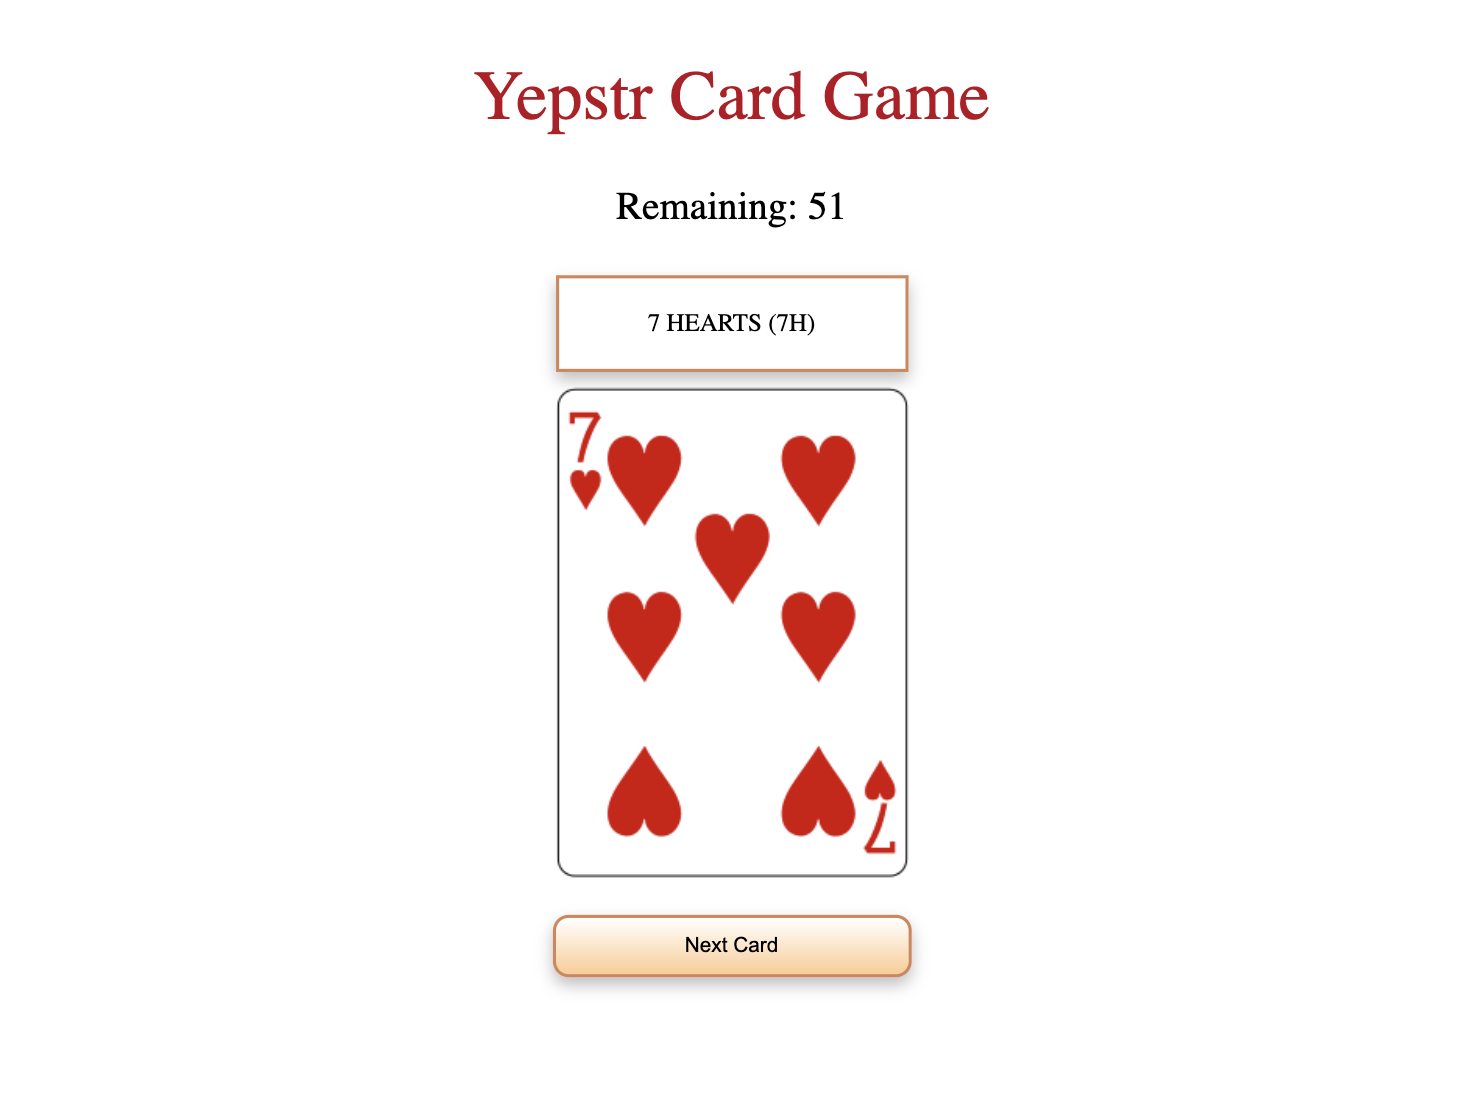
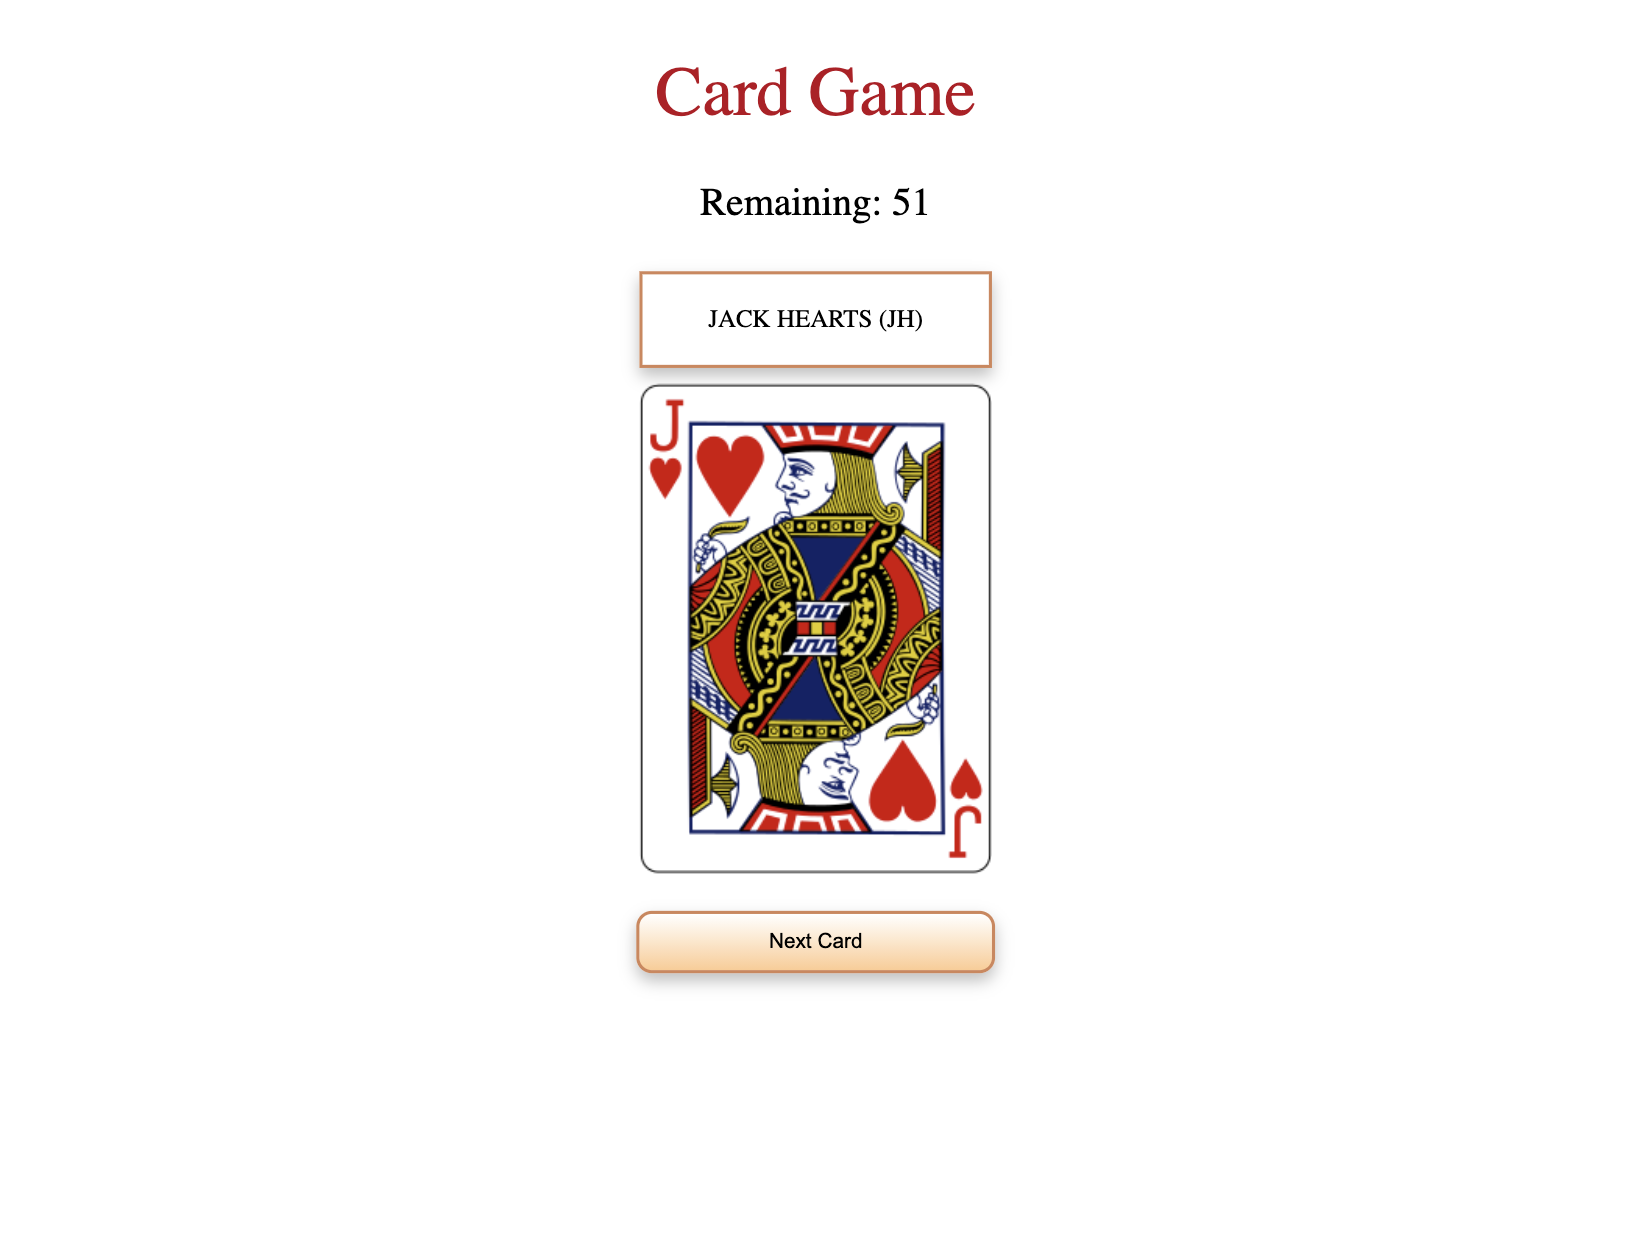
Update README.md

Changed region(s): [[0.3683, 0.1529, 0.6446, 0.8867], [0.307, 0.0306, 0.6753, 0.1223]]

diff --git a/src/App.tsx b/src/App.tsx
@@ -46,7 +46,7 @@ const App: React.FC = () => {
   return (
     <Wrapper>
       <div className="header-content">
-        <h1 className="title">Yepstr Card Game</h1>
+        <h1 className="title">Card Game</h1>
       </div>
 
       {gameOver ? <h1>Game Over</h1> : null}
